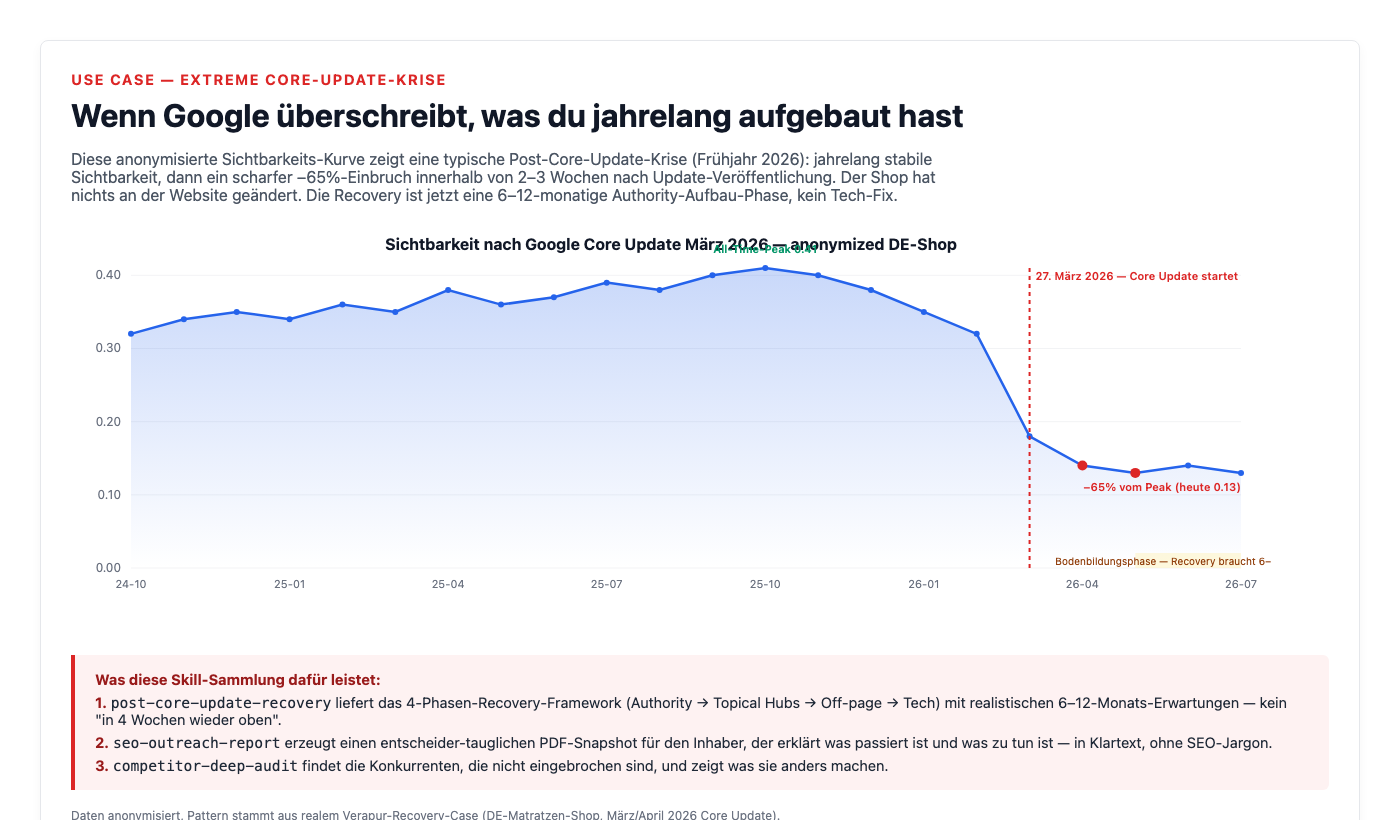
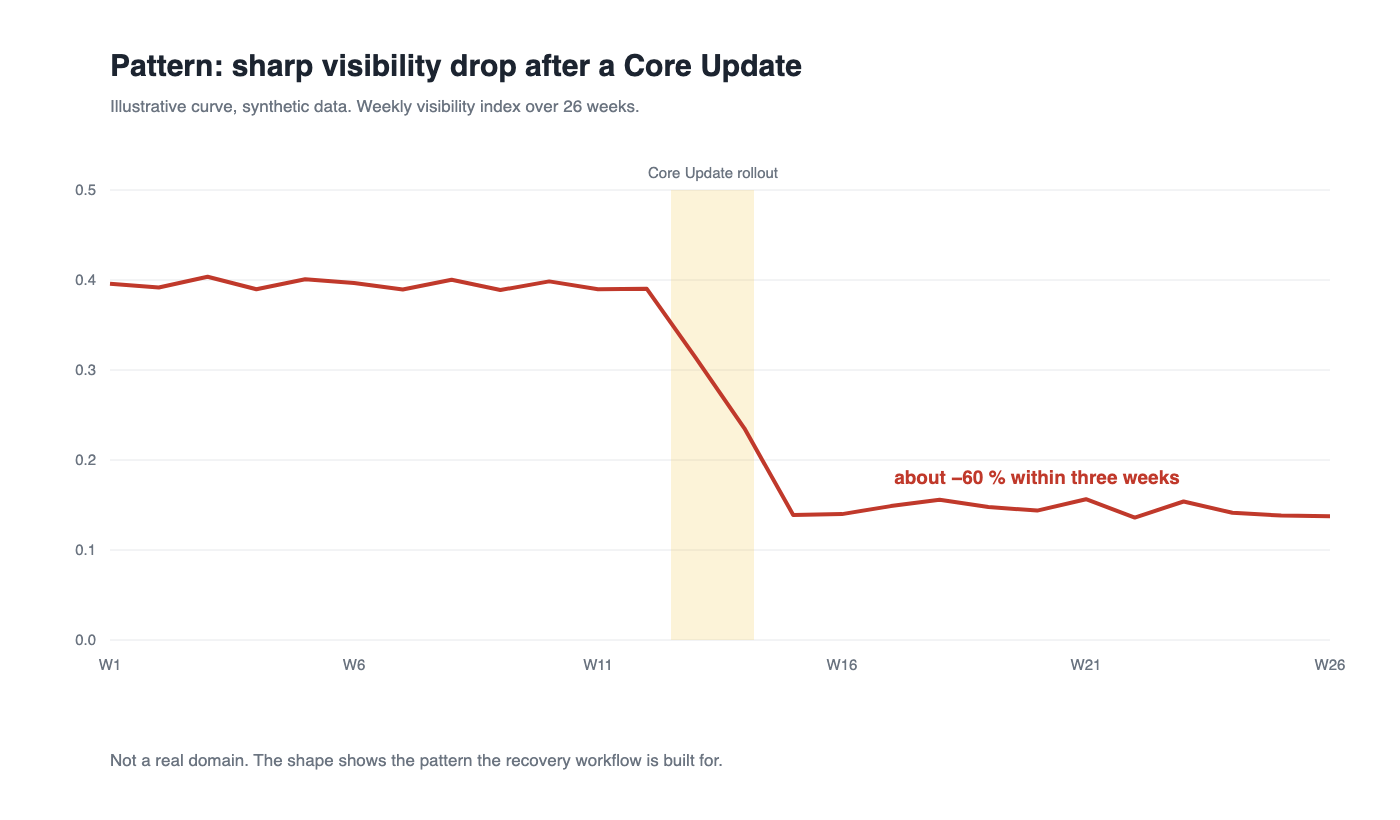
release: v0.5.5 — corrections, current update list, honest maturity statements (#60)
- version 0.5.5 across manifest, 19 skills, README, onboarding; CHANGELOG section cut
- skill count corrected to nineteen; target-keyword-set added to command lists
- CORE_UPDATES.md: June/August/September 2026 spam updates and the running
  November 2026 core update (source: Google Search Status, checked 2026-11-18);
  recovery-diagnose treats an open rollout end as an active update window
- eight dead ARCHITECTURE.md links in the reference documents repaired
- README and MATURITY.md: no 'validated' claim; pilot case described as one case
  without documented recovery; outdated statements removed
- example screenshot replaced by a chart with synthetic data
- remaining 'leading recovery indicator' wording aligned with the retraction

diff --git a/MATURITY.md b/MATURITY.md
@@ -4,12 +4,12 @@ Honest assessment of where this plugin sits in the Claude Code SEO ecosystem.
 
 ## Where this plugin is today
 
-**Version 0.5.0** (shipped) — sixth release in the May 2026 launch + hardening cycle. Architecture consolidation: doc structure reached canonical-source-of-truth state in [ARCHITECTURE.md](./ARCHITECTURE.md). No new runtime skills and no change to runtime behavior relative to v0.4.1. **v0.5.2 shipped:** SEO Change Governor + Settlement Gate, the recovery-workflow commands, and the runnable SISTRIX Monday Recovery Check and subscription-monetization-audit skills.
+**Version 0.5.5** (November 2026). Nineteen skills and commands: one orchestrator, the six-command recovery workflow with Settlement Gate and Change Governor, and twelve further skills. See [CHANGELOG.md](./CHANGELOG.md) for what each release changed, including the findings that were withdrawn in 0.5.5.
 
 **Positioning.** Recovery Operating System for Ecommerce/D2C. Recovery-first, decision-first, profit-aware, risk-aware. Complements technical-audit suites like `claude-seo`; does not replace them. The framework supports decisions; execution belongs to the operator's team, agency, or contractors.
 
 - ✅ Tested against 4 real domains (mixed e-commerce + news, results anonymized in published LESSONS.md)
-- ✅ Real Core-Update-Recovery pilot case validates the framework — see usage section below
+- ✅ Built from one real Core-Update recovery case (N=1). The case did not end in a documented recovery, and several early findings were later withdrawn, see CHANGELOG
 - ✅ Pipeline scripts run end-to-end in <5 min per domain
 - ✅ MIT license, clean structure
 - ✅ Sample PDF + screenshots in `examples/` (synthetic data, real layout)
@@ -17,21 +17,21 @@ Honest assessment of where this plugin sits in the Claude Code SEO ecosystem.
 - ✅ agentskills.io compliant — SKILL.md format works in Claude Code / Cursor / Codex / Gemini CLI (cross-agent portability — though only tested in Claude Code so far)
 - ✅ Cross-platform docs (macOS / Linux / Windows env-var reference in ONBOARDING.md)
 - ✅ Security hardening v0.3 — `lib/safe.js` (safeSlug + safeHostname + safeUrl + safeLabel + validateConfigTargets + writeFileExclusive + getCacheDir + cachePath), strict CSP on PDF HTML, `spawnSync` with `shell: false` + array argv, sanitize() against indirect prompt-injection, `allowed-tools` declared per skill, CODEOWNERS + Dependabot + branch protection
-- ✅ Two independent security review rounds completed 2026-05-22 (see [SECURITY.md → External security reviews](./SECURITY.md#external-security-reviews)):
+- ✅ Two security review rounds completed 2026-05-22, one external and one maintainer-driven (see [SECURITY.md → External security reviews](./SECURITY.md#external-security-reviews)):
   - Round 1 (external reviewer): 1 CRITICAL chain + 4 HIGH + 6 MEDIUM — all closed in the v0.3.x security sprint
   - Round 2 (maintainer-driven senior-engineering + marketplace-reviewer audit): gitleaks + trufflehog + semgrep clean; 2 P1 marketplace items flagged + closed; verdict **SAFE TO PUBLISH**
 - ⚠ One external collaborator (security reviewer); no external feature-PRs yet
-- ⚠ No automated tests (skills tested via subagent pressure scenarios manually, plus SAST tools in CI)
-- ⚠ German-language documentation in some places (Lessons + parts of SKILL.md) — English README and a fully translated SKILL.md planned for 0.4
+- ⚠ Thin automated testing: four fixture test files and two script self-tests exist but are not yet wired into CI. CI runs structure, syntax and consistency checks, no SAST
+- ⚠ German-language documentation in some places (Lessons + parts of SKILL.md and commands)
 - ⚠ Hardcoded for German/`location_code: 2276` DataForSEO Labs queries — international expansion planned
 
-## Already in production use
+## Where it has been used
 
-This is a working tool driving real Core-Update recovery decisions on a live e-commerce domain (the pilot domain, anonymized in published LESSONS.md). It is not a research prototype:
+This tool drove real Core-Update recovery decisions on one live e-commerce domain. It is not a research prototype, and it is not a proven method either:
 
-- **Active recovery case** — driving recovery decisions on a mid-sized DE e-commerce shop hit by the March 2026 Google Core Update. Pipeline outputs (Sistrix VI traces, GSC click diffs, AI-citation counts) inform weekly recovery prioritization. Multiple dated lesson entries in `post-core-update-recovery/LESSONS.md` and `seo-outreach-report/LESSONS.md` document what worked and what didn't.
+- **Pilot case** — used from March to November 2026 to drive recovery decisions on one mid-sized DE e-commerce shop hit by the March 2026 Google Core Update. Pipeline outputs (Sistrix VI traces, GSC click diffs, AI-citation counts) informed weekly prioritization. Dated entries in `post-core-update-recovery/LESSONS.md` and `seo-outreach-report/LESSONS.md` document what worked, what did not, and which early readings were withdrawn after re-measurement.
 - **Cold-outreach use** — the decision-maker PDF format from `seo-outreach-report` has been generated for real prospects, not just synthetic examples. The 10-chapter layout, the language register, and the action-plan template all reflect feedback from actual non-technical recipients.
-- **Operating since** — the pipeline scripts (then under different filenames) have been in regular use since March 2026 on the maintainer's daily SEO workflow. The plugin packaging just made them shareable.
+- **Operating period** — the pipeline scripts (then under different filenames) were in regular use from March 2026 in the maintainer's SEO workflow. The plugin packaging made them shareable.
 - **Self-improving via LESSONS.md** — each new pattern observed in real use gets a dated entry. After three confirmations, it moves into the main SKILL.md. This is the mechanism that took the framework from "ad-hoc memos" to "documented playbook".
 
 What this is **not** yet: production-grade in the sense of having external users, an SLA, or a support contract. The plugin is in **public beta** (single-maintainer, best-effort response, see the Status section of [README.md](./README.md)).
@@ -40,20 +40,18 @@ What this is **not** yet: production-grade in the sense of having external users
 
 ## How this compares to alternatives
 
-| Plugin / Skill Pack | Stars | Mature? | Covers what we cover? | Recommendation |
+| Plugin / Skill Pack | Stars (May 2026) | Mature? | Covers what we cover? | Recommendation |
 |---------------------|-------|---------|------------------------|----------------|
 | [AgriciDaniel/claude-seo](https://github.com/AgriciDaniel/claude-seo) | 6.9k | **Very mature** (v1.9.9, 30+ commits, active maintenance) | Comprehensive audit, schema, content, GEO, e-commerce, international, PDF reports | **Use for technical audits.** This is the reference. |
 | [aaron-he-zhu/seo-geo-claude-skills](https://github.com/aaron-he-zhu/seo-geo-claude-skills) | 1.7k | Mature | 20 skills around keyword research + content writing + technical audits + rank tracking | **Use for ongoing content/keyword work.** |
 | [zubair-trabzada/dataforseo-claude](https://github.com/zubair-trabzada/dataforseo-claude) | 79 | Newer | DataForSEO-focused with 13 skills + 5 subagents | Good if DataForSEO is your main data source. |
 | [coreyhaines31/marketingskills](https://github.com/coreyhaines31/marketingskills) | 12.9k | Very mature | Marketing stack (CRO, copy, paid ads, SEO) — broader scope | Use for marketing breadth, not deep SEO. |
 | [SwayyEm 21-Skills Pack](https://www.swayyem.com/guides/21-seo-skills-built-for-claude) | n/a (lead magnet) | Newer | 21 pure-prompt skills across keywords, content, technical, off-page, AI-search. Distributed as commercial lead magnet for editorial-PR services with email gate on full content. | Use for prompt-engineering patterns and breadth ideas. Lacks live API integrations, drift detection, recovery-window discipline, identity-leak sanitization, and pattern maturity stages. |
-| **[maxschottke-spec/seo-survival-kit](https://github.com/maxschottke-spec/seo-survival-kit) (this)** | early | **0.5.2 shipped, hardened** | Recovery Operating System for ecommerce/D2C: Core-Update + AI-search recovery framework, outreach-PDF pipeline, channel economics, competitor + PSI tracking, GSC deep dive, AI citation tracking, decision/sequencing layer (v0.5 docs) | **Use when** the situation is recovery / cold-outreach / AI-search visibility / cross-channel decision support for ecommerce. Complements technical-audit plugins. |
+| **[maxschottke-spec/seo-survival-kit](https://github.com/maxschottke-spec/seo-survival-kit) (this)** | early | **0.5.5, public beta** | Recovery Operating System for ecommerce/D2C: Core-Update + AI-search recovery framework, outreach-PDF pipeline, channel economics, competitor + PSI tracking, GSC deep dive, AI citation tracking, decision/sequencing layer (v0.5 docs) | **Use when** the situation is recovery / cold-outreach / AI-search visibility / cross-channel decision support for ecommerce. Complements technical-audit plugins. |
 
 ### Comparison detail
 
 **Against `claude-seo` (6.9k stars, very mature):** complementary, not competing. claude-seo is the broad technical-audit reference suite. This kit focuses on the narrower recovery-window decision-discipline: post-Core-Update sequencing, defensive change governance, stop-regel mechanics, and AI-citation drift detection. Recommended posture: claude-seo for broad audits, this kit for recovery windows.
-
-**Against SwayyEm 21-Skills Pack:** functional overlap exists in 5-7 skill areas (canonical conflict detection, content cluster building, backlink quality scoring with AI-citation-weight dimension, anchor text balancing, topical authority mapping, schema markup validation). The SwayyEm pack is pure-prompt without live validation backend, halluciniert in AI-engine-citation simulation (no API anchoring), and lacks recovery-window concepts (settlement gates, drift baselines, identity-leak sanitization). The SwayyEm pack is distributed as an email-gated lead magnet for editorial-PR services; this kit is MIT-licensed without gate. Cross-adaptation of useful prompt patterns is possible with sanitization and live-validation backend wrapping.
 
 ## What's actually unique here
 

diff --git a/README.md b/README.md
@@ -1,12 +1,12 @@
 # SEO Survival Kit for Claude Code
 
-> Recovery-first decision support for ecommerce/D2C SEO. Claude Code skills for Core Update recovery diagnosis, prioritized action plans, weekly monitoring, and a Change Governor / Settlement Gate that prevents over-optimizing during recovery windows. Built and validated during real ecommerce Core-Update recovery in spring 2026. Open-source, MIT, zero runtime dependencies.
+> Recovery-first decision support for ecommerce/D2C SEO. Claude Code skills for Core Update recovery diagnosis, prioritized action plans, weekly monitoring, and a Change Governor / Settlement Gate that prevents over-optimizing during recovery windows. Built during a real ecommerce Core-Update recovery case in 2026 and corrected against five months of re-measurement. Most rules are single-case observations (N=1), labelled as such. Open-source, MIT, zero runtime dependencies.
 
 [![License: MIT](https://img.shields.io/badge/License-MIT-yellow.svg)](https://opensource.org/licenses/MIT)
 [![Claude Code](https://img.shields.io/badge/Claude%20Code-Plugin-blueviolet)](https://code.claude.com/)
 [![Status: Public Beta](https://img.shields.io/badge/Status-Public%20Beta-orange.svg)](./CHANGELOG.md)
 
-**v0.5.4 shipped.** Public beta. Breaking changes possible before v1.0. Pin to a tag for reproducible installs. See [CHANGELOG.md](./CHANGELOG.md).
+**v0.5.5 shipped.** Public beta. Breaking changes possible before v1.0. Pin to a tag for reproducible installs. See [CHANGELOG.md](./CHANGELOG.md).
 
 ## Start here
 
@@ -142,7 +142,7 @@ The orchestrator (`/seo-rescue:rescue`) routes to the right skill or command; ea
 Pinned to a tag (reproducible, survives upstream changes):
 
 ```shell
-/plugin marketplace add maxschottke-spec/seo-survival-kit#v0.5.4
+/plugin marketplace add maxschottke-spec/seo-survival-kit#v0.5.5
 /plugin install seo-rescue@seo-survival-kit
 /reload-plugins
 ```
@@ -178,7 +178,7 @@ Same layout you get for a real domain — 10 chapters, ~1 MB PDF, plain language
 
 ![Sample SEO Report — Cover & Executive Summary](./examples/screenshots/01-cover-executive-summary.png)
 
-Full sample: [examples/sample-audit.pdf](./examples/sample-audit.pdf). The use-case pattern (sharp −60% drop in 2-3 weeks after a published Core Update) is documented in [examples/screenshots/02-core-update-crash-case.png](./examples/screenshots/02-core-update-crash-case.png) and [ROADMAP-2026.md](./ROADMAP-2026.md).
+Full sample: [examples/sample-audit.pdf](./examples/sample-audit.pdf). The use-case pattern (a sharp drop within 2-3 weeks after a published Core Update) is illustrated with synthetic data in [examples/screenshots/02-core-update-crash-case.png](./examples/screenshots/02-core-update-crash-case.png) and [ROADMAP-2026.md](./ROADMAP-2026.md).
 
 ## When to use
 
@@ -218,7 +218,7 @@ For Your-Money-Your-Life sites (medical, legal, financial, regulated), have a do
 
 ## Real-world basis
 
-Skills were built from one extended Core-Update recovery case (mid-size DE ecommerce shop, March/April 2026 update window) and validated against four additional real-world domain audits in May 2026. Patterns in skill `LESSONS.md` files are observations from this case base, not population statistics — treat as starting hypotheses to test in your own context.
+Skills were built from one extended Core-Update recovery case (mid-size DE ecommerce shop, March/April 2026 update window) and applied to four additional real-world domain audits in May 2026. The case did not end in a documented recovery, and several early findings were later withdrawn (see [CHANGELOG.md](./CHANGELOG.md), 0.5.5 → Corrected). Patterns in skill `LESSONS.md` files are observations from this case base, not population statistics — treat as starting hypotheses to test in your own context.
 
 The open repo is a first-pass methodology and decision-support layer. It helps identify recovery signals, risky changes, protected URLs, winner/loser patterns, missing data, and validation steps. It is not the same as a calibrated recovery engagement that brings private business context into the decision. Deeper recovery work needs data the open repo does not see: GSC/SISTRIX history, shop revenue, margin, returns, inventory, paid-media context, implementation history, competitive context, and operator review to weigh conflicting signals.
 
@@ -232,7 +232,7 @@ The plugin is MIT and self-serve. If you'd rather have someone with operational 
 | **Recovery Retainer (ongoing advisory)** | Monthly reviews, plan adjustments, prioritization help | 3-6 months, weekly to bi-weekly cadence |
 | **Outreach pipeline setup** | Configured pipeline + first 5 PDFs + handoff | One-time, for agencies that want decision-maker deliverables |
 
-Contact: open a [Discussion](https://github.com/maxschottke-spec/seo-survival-kit/discussions) or reach the maintainer via the email on the [GitHub profile](https://github.com/maxschottke-spec). The framework comes from a specific recovery case still in active recovery; engaging means getting context on which patterns apply to your situation and which do not.
+Contact: open a [Discussion](https://github.com/maxschottke-spec/seo-survival-kit/discussions).
 
 ## Contributors
 
@@ -241,7 +241,7 @@ Contact: open a [Discussion](https://github.com/maxschottke-spec/seo-survival-ki
 
 ## Status
 
-Single-maintainer open-source project. No SLA, no commercial support. Issue response best-effort within a few days. For production-critical workflows, pin to a specific tag and review releases before upgrading. The currently shipping version is visible in the badge near the top of this README and in [CHANGELOG.md](./CHANGELOG.md).
+Single-maintainer open-source project. No SLA, no commercial support. Issue response best-effort within a few days. For production-critical workflows, pin to a specific tag and review releases before upgrading. The currently shipping version is stated at the top of this README and in [CHANGELOG.md](./CHANGELOG.md).
 
 ## License, security, contributing
 

diff --git a/plugins/seo-rescue/references/RECOVERY_SYSTEM.md b/plugins/seo-rescue/references/RECOVERY_SYSTEM.md
@@ -1,10 +1,10 @@
 # Recovery System
 
-Operational methodology for SEO recovery within the [Recovery Operating System](./ARCHITECTURE.md). This document defines what an operator does during SEO recovery: how decisions get made, what gets protected, what does not get touched, how risk is evaluated, and how time windows shape conclusions. The aim is operator-grade methodology, not a feature list.
+Operational methodology for SEO recovery within the [Recovery Operating System](https://github.com/maxschottke-spec/seo-survival-kit/blob/main/ARCHITECTURE.md). This document defines what an operator does during SEO recovery: how decisions get made, what gets protected, what does not get touched, how risk is evaluated, and how time windows shape conclusions. The aim is operator-grade methodology, not a feature list.
 
-> **Status note (v0.5.2).** This document is methodology specification. Sections 5 (Recovery Risk Engine), 6 (Risk Matrix), 7 (Money Keyword Protection), 8 (Winner/Loser Neutralization), 9 (URL Recovery Analysis), 10 (Recovery Signal Score), and 12 (Time-based Recovery Logic) are exercised by the `sistrix-monday-recovery-check` skill (shipped in v0.5.2, CSV-first weekly workflow). The recovery workflow commands (`recovery-diagnose/crawl/audit/plan/monitor/full`, also v0.5.2) implement parts of the methodology in runtime form: Do-Not-Touch and batch limits in `recovery-plan`, stage estimation in `recovery-diagnose`, and an **automated 5-component Recovery Score in `recovery-monitor` that is a separate metric from the section-10 Recovery Signal Score** (see section 10 note). Sections without a runtime are applied manually by reading them; the skill registry is in [ARCHITECTURE.md §4](./ARCHITECTURE.md#4-modules-and-skill-registry).
+> **Status note (v0.5.2).** This document is methodology specification. Sections 5 (Recovery Risk Engine), 6 (Risk Matrix), 7 (Money Keyword Protection), 8 (Winner/Loser Neutralization), 9 (URL Recovery Analysis), 10 (Recovery Signal Score), and 12 (Time-based Recovery Logic) are exercised by the `sistrix-monday-recovery-check` skill (shipped in v0.5.2, CSV-first weekly workflow). The recovery workflow commands (`recovery-diagnose/crawl/audit/plan/monitor/full`, also v0.5.2) implement parts of the methodology in runtime form: Do-Not-Touch and batch limits in `recovery-plan`, stage estimation in `recovery-diagnose`, and an **automated 5-component Recovery Score in `recovery-monitor` that is a separate metric from the section-10 Recovery Signal Score** (see section 10 note). Sections without a runtime are applied manually by reading them; the skill registry is in [ARCHITECTURE.md §4](https://github.com/maxschottke-spec/seo-survival-kit/blob/main/ARCHITECTURE.md#4-modules-and-skill-registry).
 
-Companion docs: [ARCHITECTURE.md](./ARCHITECTURE.md) for system shape, [DECISION_ENGINE.md](./DECISION_ENGINE.md) for the decision rules consumed here, [SISTRIX_MONDAY_RECOVERY_CHECK.md](./SISTRIX_MONDAY_RECOVERY_CHECK.md) for the weekly workflow that exercises this methodology.
+Companion docs: [ARCHITECTURE.md](https://github.com/maxschottke-spec/seo-survival-kit/blob/main/ARCHITECTURE.md) for system shape, [DECISION_ENGINE.md](./DECISION_ENGINE.md) for the decision rules consumed here, [SISTRIX_MONDAY_RECOVERY_CHECK.md](./SISTRIX_MONDAY_RECOVERY_CHECK.md) for the weekly workflow that exercises this methodology.
 
 ---
 
@@ -126,7 +126,7 @@ The default is "stay protected longer". Lifting protection prematurely is more c
 
 ### Override
 
-The operator can override Do-Not-Touch with context the framework does not have. When the override happens, the decision is logged (see [ARCHITECTURE.md section 5](./ARCHITECTURE.md#5-privacy-and-client-data) decision memory), the specific risk acknowledged, and the result watched closely at the next Monday cycle.
+The operator can override Do-Not-Touch with context the framework does not have. When the override happens, the decision is logged (see [ARCHITECTURE.md section 5](https://github.com/maxschottke-spec/seo-survival-kit/blob/main/ARCHITECTURE.md#5-privacy-and-client-data) decision memory), the specific risk acknowledged, and the result watched closely at the next Monday cycle.
 
 ---
 
@@ -982,7 +982,7 @@ Check the temporal order before anything else: in the originating case the break
 
 ## Appendix B: Decision Log Format (operator-facing)
 
-The operator maintains a decision log to build judgment over time. Lightweight format, expected to live in the operator's local gitignored `private/decisions/` directory (see [ARCHITECTURE.md section 5](./ARCHITECTURE.md#5-privacy-and-client-data)).
+The operator maintains a decision log to build judgment over time. Lightweight format, expected to live in the operator's local gitignored `private/decisions/` directory (see [ARCHITECTURE.md section 5](https://github.com/maxschottke-spec/seo-survival-kit/blob/main/ARCHITECTURE.md#5-privacy-and-client-data)).
 
 ```markdown
 # YYYY-MM-DD — Brief decision title
@@ -1015,4 +1015,4 @@ The operator maintains a decision log to build judgment over time. Lightweight f
 
 The decision log is the primary source of pattern maturity progression. Repeated correct decisions on the same pattern type promote the pattern toward higher confidence. Repeated wrong decisions identify gaps in the existing rule set and trigger candidate new decision rules.
 
-The log is local-only. Public artifacts (new decision rules, new patterns documented in this file) are produced via the redaction process in [ARCHITECTURE.md section 5](./ARCHITECTURE.md#5-privacy-and-client-data).
+The log is local-only. Public artifacts (new decision rules, new patterns documented in this file) are produced via the redaction process in [ARCHITECTURE.md section 5](https://github.com/maxschottke-spec/seo-survival-kit/blob/main/ARCHITECTURE.md#5-privacy-and-client-data).

diff --git a/plugins/seo-rescue/references/DECISION_ENGINE.md b/plugins/seo-rescue/references/DECISION_ENGINE.md
@@ -2,7 +2,7 @@
 
 Logic that turns diagnostic evidence into prioritized, sequenced, confidence-rated recommendations. Sits above individual skills; new skills feed the engine, the engine produces decisions.
 
-Companion docs: [ARCHITECTURE.md](./ARCHITECTURE.md) for system shape, [RECOVERY_SYSTEM.md](./RECOVERY_SYSTEM.md) for the recovery-specific layer that the engine consumes, [SISTRIX_MONDAY_RECOVERY_CHECK.md](./SISTRIX_MONDAY_RECOVERY_CHECK.md) for the weekly workflow that exercises the engine.
+Companion docs: [ARCHITECTURE.md](https://github.com/maxschottke-spec/seo-survival-kit/blob/main/ARCHITECTURE.md) for system shape, [RECOVERY_SYSTEM.md](./RECOVERY_SYSTEM.md) for the recovery-specific layer that the engine consumes, [SISTRIX_MONDAY_RECOVERY_CHECK.md](./SISTRIX_MONDAY_RECOVERY_CHECK.md) for the weekly workflow that exercises the engine.
 
 ---
 
@@ -186,7 +186,7 @@ Each rule is a short, named, source-cited entry that applies in specific conditi
 
 ### Adding rules
 
-New rules land per the lifecycle in [ARCHITECTURE.md governance](./ARCHITECTURE.md#release-gating): observe across 3+ confirmed cases, document with all required fields, tie to source(s), add to relevant skill's `LESSONS.md`, reference in skill output when fired. Rules added without 3+ confirmations are labeled "experimental" and apply at low confidence only.
+New rules land per the lifecycle in [ARCHITECTURE.md governance](https://github.com/maxschottke-spec/seo-survival-kit/blob/main/ARCHITECTURE.md#release-gating): observe across 3+ confirmed cases, document with all required fields, tie to source(s), add to relevant skill's `LESSONS.md`, reference in skill output when fired. Rules added without 3+ confirmations are labeled "experimental" and apply at low confidence only.
 
 ### Removing rules
 
@@ -467,7 +467,7 @@ It does not integrate with CRM, marketing automation, or dashboard platforms.
 
 ## 11. Planned output contract (v0.6+)
 
-**Planned for v0.6+.** The current skills (18 in `plugins/seo-rescue/skills/`) do not currently emit a structured decision-layer wrapper. This section specifies the output contract that the planned Decision Engine integration will produce when skills are revised to feed the engine in v0.6+. Treat the list below as the target shape, not as a description of current skill outputs.
+**Planned for v0.6+.** The current skills (19 in `plugins/seo-rescue/skills/`) do not currently emit a structured decision-layer wrapper. This section specifies the output contract that the planned Decision Engine integration will produce when skills are revised to feed the engine in v0.6+. Treat the list below as the target shape, not as a description of current skill outputs.
 
 The planned skill output will include the engine's decision-layer wrapper:
 

diff --git a/plugins/seo-rescue/commands/recovery-diagnose.md b/plugins/seo-rescue/commands/recovery-diagnose.md
@@ -350,7 +350,7 @@ Pruefreihenfolge: zuerst `R5` (der `vi_current`-Check hat Vorrang vor den Trend-
 Überlagert die rohe `recovery_stage_estimate` mit Freeze-/Re-Entry-Regeln (Lesson 4a). Markiert `maturity: "experimental_n1"`. Liest die Rollout-Fenster (Start/Ende) aus `../../references/CORE_UPDATES.md` — dieselbe Datei wie Schritt 8.
 
 1. **Kein/veraltetes CORE_UPDATES.md** (Datei fehlt oder > 90 Tage alt): keine Freezes — `stage = recovery_stage_estimate`, `raw_stage = recovery_stage_estimate`, `progression_allowed: true`, `frozen_reason: null`, `re_entry_detected: false`, `re_entry_from: null`, `active_update: null`, `days_since_rollout_end: null`, `maturity: "experimental_n1"`. Fertig.
-2. **active_update_window:** Liegt das heutige Datum innerhalb [Rollout-Start, Rollout-Ende] eines Eintrags → `frozen_reason: "active_update_window"`, `progression_allowed: false`, `active_update` = Update-Name.
+2. **active_update_window:** Liegt das heutige Datum innerhalb [Rollout-Start, Rollout-Ende] eines Eintrags, oder steht bei einem Eintrag mit Rollout-Start ≤ heute als Rollout-Ende `laufend` (Rollout noch nicht abgeschlossen) → `frozen_reason: "active_update_window"`, `progression_allowed: false`, `active_update` = Update-Name.
 3. **post_update_settlement:** sonst, liegt heute in (Rollout-Ende, Rollout-Ende + 28 Tage] des jüngsten Eintrags → `frozen_reason: "post_update_settlement"`, `progression_allowed: false`, `days_since_rollout_end` = Tage seit Rollout-Ende. Sonst `frozen_reason: null`, `progression_allowed: true`.
 4. **Re-Entry:** endete das jüngste Update ≤ 28 Tage vor heute UND `vi_trend_4w_pct < -10` → `re_entry_detected: true`, `re_entry_from` = `recovery_stage_estimate`, effektive `stage = "R1"`. Sonst `re_entry_detected: false`, `re_entry_from: null`, `stage = recovery_stage_estimate`.
    (Re-Entry und Freeze können gleichzeitig gelten: `stage = "R1"`, `progression_allowed` bleibt `false`.)

diff --git a/ROADMAP-2026.md b/ROADMAP-2026.md
@@ -104,9 +104,9 @@ For the `post-core-update-recovery` skill's credibility — public examples of e
 
 | Year | Domain / Industry | Drop | Reference |
 |------|-------------------|------|-----------|
-| 2023–2024 | Glenn Gabe's commercial-site case (multiple updates Jul–Oct 2023) | −41 % over 4 updates | [Search Engine Journal coverage](https://searchengineland.com/case-study-august-2024-google-core-update-recovery-plan-447142) |
+| 2023–2024 | Glenn Gabe's commercial-site case (multiple updates Jul–Oct 2023) | −41 % over 4 updates | [Search Engine Land coverage](https://searchengineland.com/case-study-august-2024-google-core-update-recovery-plan-447142) |
 | Aug 2024 | Technical product site (Promodo case) | Notable decline, conversions stable | [Promodo blog](https://www.promodo.com/blog/google-updates) |
-| Dec 2025 | Mid-sized online retailer | −40 % traffic overnight, key products fell from pos 3-5 to 15-20 | [ALM Corp analysis](https://almcorp.com/blog/google-december-2025-core-update-complete-analysis-recovery-guide/) |
+| Dec 2025 | Mid-sized online retailer | −40 % traffic overnight, key products fell from pos 3-5 to 15-20 | ALM Corp analysis (source page no longer online) |
 | 2024 | HouseFresh (HVAC reviews) | Made famous by Forbes coverage — independent review sites flattened in favor of major publishers | Public reporting widely covered |
 | 2024 | Retro Dodo (gaming retro reviews) | Documented by DigiDay — small-publisher-crash narrative | Public reporting |
 

diff --git a/CLAUDE.md b/CLAUDE.md
@@ -51,7 +51,7 @@ seo-survival-kit/
 │           ├── rescue/                       # Orchestrator + routing table
 │           ├── seo-audit-free/
 │           ├── post-core-update-recovery/
-│           ├── seo-outreach-report/          # SKILL.md + 4 Node.js scripts + .env.example
+│           ├── seo-outreach-report/          # SKILL.md + pipeline scripts + .env.example
 │           ├── channel-economics-analyzer/
 │           ├── competitor-deep-audit/
 │           ├── target-keyword-set/           # v0.5.5: target set from existing rankings, grouped by kind of work
@@ -193,7 +193,7 @@ These rules are derived from real recovery operations and apply to all commands 
 
 - Repository: https://github.com/maxschottke-spec/seo-survival-kit
 - Anthropic community marketplace: pending review at claude-plugins-community
-- Install: `/plugin marketplace add maxschottke-spec/seo-survival-kit#v0.5.4`
+- Install: `/plugin marketplace add maxschottke-spec/seo-survival-kit#v0.5.5`
 - Pilot-domain recovery case (anonymized): see `post-core-update-recovery/LESSONS.md` for the dated lesson entries that source the framework
 
 ## Canonical doc map

diff --git a/CHANGELOG.md b/CHANGELOG.md
@@ -7,6 +7,17 @@ and this project adheres to [Semantic Versioning 2.0.0](https://semver.org/spec/
 
 ## [Unreleased]
 
+## [0.5.5] — 2026-11-18
+
+### Fixed (release preparation)
+
+- Skill count corrected to nineteen in the marketplace manifest and exports; `target-keyword-set` added to the command lists.
+- `CORE_UPDATES.md` extended by the June, August and September 2026 spam updates and the November 2026 core update (still rolling out); `recovery-diagnose` treats an open rollout end (`laufend`) as an active update window.
+- Eight dead links to `ARCHITECTURE.md` in the reference documents repaired.
+- README and MATURITY.md no longer call the framework "validated"; the pilot case is described as what it is (one case, no documented recovery, several findings withdrawn).
+- Example screenshot of the Core-Update drop replaced by a chart with synthetic data.
+- Remaining "leading recovery indicator" wording for AI citations aligned with the retraction below.
+
 ### Corrected
 
 Findings from five further months of recovery operations, folded back into the framework. The largest part is retractions: several figures that stage, gates and plans rested on did not survive re-measurement.

diff --git a/exports/skills/seo-rescue-overview.md b/exports/skills/seo-rescue-overview.md
@@ -78,8 +78,8 @@ If you want native skill-like behavior on Cursor / Custom GPT / Gemini / Aider, 
 - **Repository:** [github.com/maxschottke-spec/seo-survival-kit](https://github.com/maxschottke-spec/seo-survival-kit)
 - **License:** MIT
 - **Dependencies:** zero npm runtime deps (everything that talks to a network is via `fetch`; PDF rendering uses Chrome-headless via `spawnSync` with `shell: false`)
-- **Security:** two independent review rounds, see [SECURITY.md](https://github.com/maxschottke-spec/seo-survival-kit/blob/main/SECURITY.md#external-security-reviews)
-- **Status:** Public Beta (v0.5.2 — 18 skills/commands: 1 orchestrator + 17 sub-skills and recovery commands)
+- **Security:** one external security review plus one maintainer-driven re-audit, see [SECURITY.md](https://github.com/maxschottke-spec/seo-survival-kit/blob/main/SECURITY.md#external-security-reviews)
+- **Status:** Public Beta (v0.5.5 — 19 skills/commands: 1 orchestrator + 18 sub-skills and recovery commands)
 
 ---
 

diff --git a/plugins/seo-rescue/skills/ai-citations-tracker/SKILL.md b/plugins/seo-rescue/skills/ai-citations-tracker/SKILL.md
@@ -7,7 +7,7 @@ allowed-tools: [Read, Write, Bash(node:*), Bash(curl:*), Bash(launchctl:*), Bash
 license: MIT
 metadata:
   author: Max Schottke
-  version: '0.5.4'
+  version: '0.5.5'
   category: marketing
 ---
 
@@ -24,7 +24,7 @@ This is the **possible-early-signal** companion to [[post-core-update-recovery]]
 
 ## When to use
 
-- A site running active Core-Update recovery — track AI citations as the leading recovery indicator
+- A site running active Core-Update recovery — log AI citations as a supporting signal (the lead-indicator reading was rescinded, see Overview)
 - A brand wanting to know whether ChatGPT / Perplexity / AI Overviews actually mention them (most brands don't measure this — they guess)
 - An agency reporting to clients on "AI search visibility" — needs hard numbers, not vibes
 - A YMYL / B2B vendor whose buyers research via ChatGPT before contact sales — citation frequency is a direct lead-gen signal

diff --git a/plugins/seo-rescue/skills/ai-search-rescue/SKILL.md b/plugins/seo-rescue/skills/ai-search-rescue/SKILL.md
@@ -7,7 +7,7 @@ allowed-tools: [Read, Grep, Glob]
 license: MIT
 metadata:
   author: Max Schottke
-  version: '0.5.4'
+  version: '0.5.5'
   category: marketing
 ---
 
@@ -27,7 +27,7 @@ Two operational findings drive this skill:
 - A site that recovered organic rankings but is invisible in AI Overviews
 - Owner says "ChatGPT keeps recommending our competitor, never us"
 - Site has thin or unstructured content that AI surfaces can't extract from
-- Post-Core-Update recovery work — track AI citations as leading recovery indicator
+- Post-Core-Update recovery work — log AI citations as a supporting signal (the lead-indicator reading was rescinded, see Overview)
 - New domain/topic launch — set up for AI-citability from day one
 - B2B / YMYL site (medical, legal, financial) — AI surfaces over-index on authoritative sources here
 

diff --git a/plugins/seo-rescue/references/CORE_UPDATES.md b/plugins/seo-rescue/references/CORE_UPDATES.md
@@ -4,6 +4,10 @@ Reference data for Core Update correlation checks in `recovery-diagnose`.
 
 | Update | Type | Rollout-Start | Rollout-Ende | Verified |
 |--------|------|--------------|-------------|----------|
+| November 2026 Core Update | core | 2026-11-10 | laufend | yes (2026-11-18, rollout not finished) |
+| September 2026 Spam Update | spam | 2026-09-24 | 2026-10-08 | yes (2026-11-18) |
+| August 2026 Spam Update | spam | 2026-08-18 | 2026-08-21 | yes (2026-11-18) |
+| June 2026 Spam Update | spam | 2026-06-24 | 2026-06-26 | yes (2026-11-18) |
 | May 2026 Core Update | core | 2026-05-21 | 2026-06-02 | yes (2026-06-03) |
 | March 2026 Core Update | core | 2026-03-27 | 2026-04-08 | yes (2026-06-03) |
 | March 2026 Spam Update | spam | 2026-03-24 | 2026-03-25 | yes (2026-06-03, 20h rollout) |
